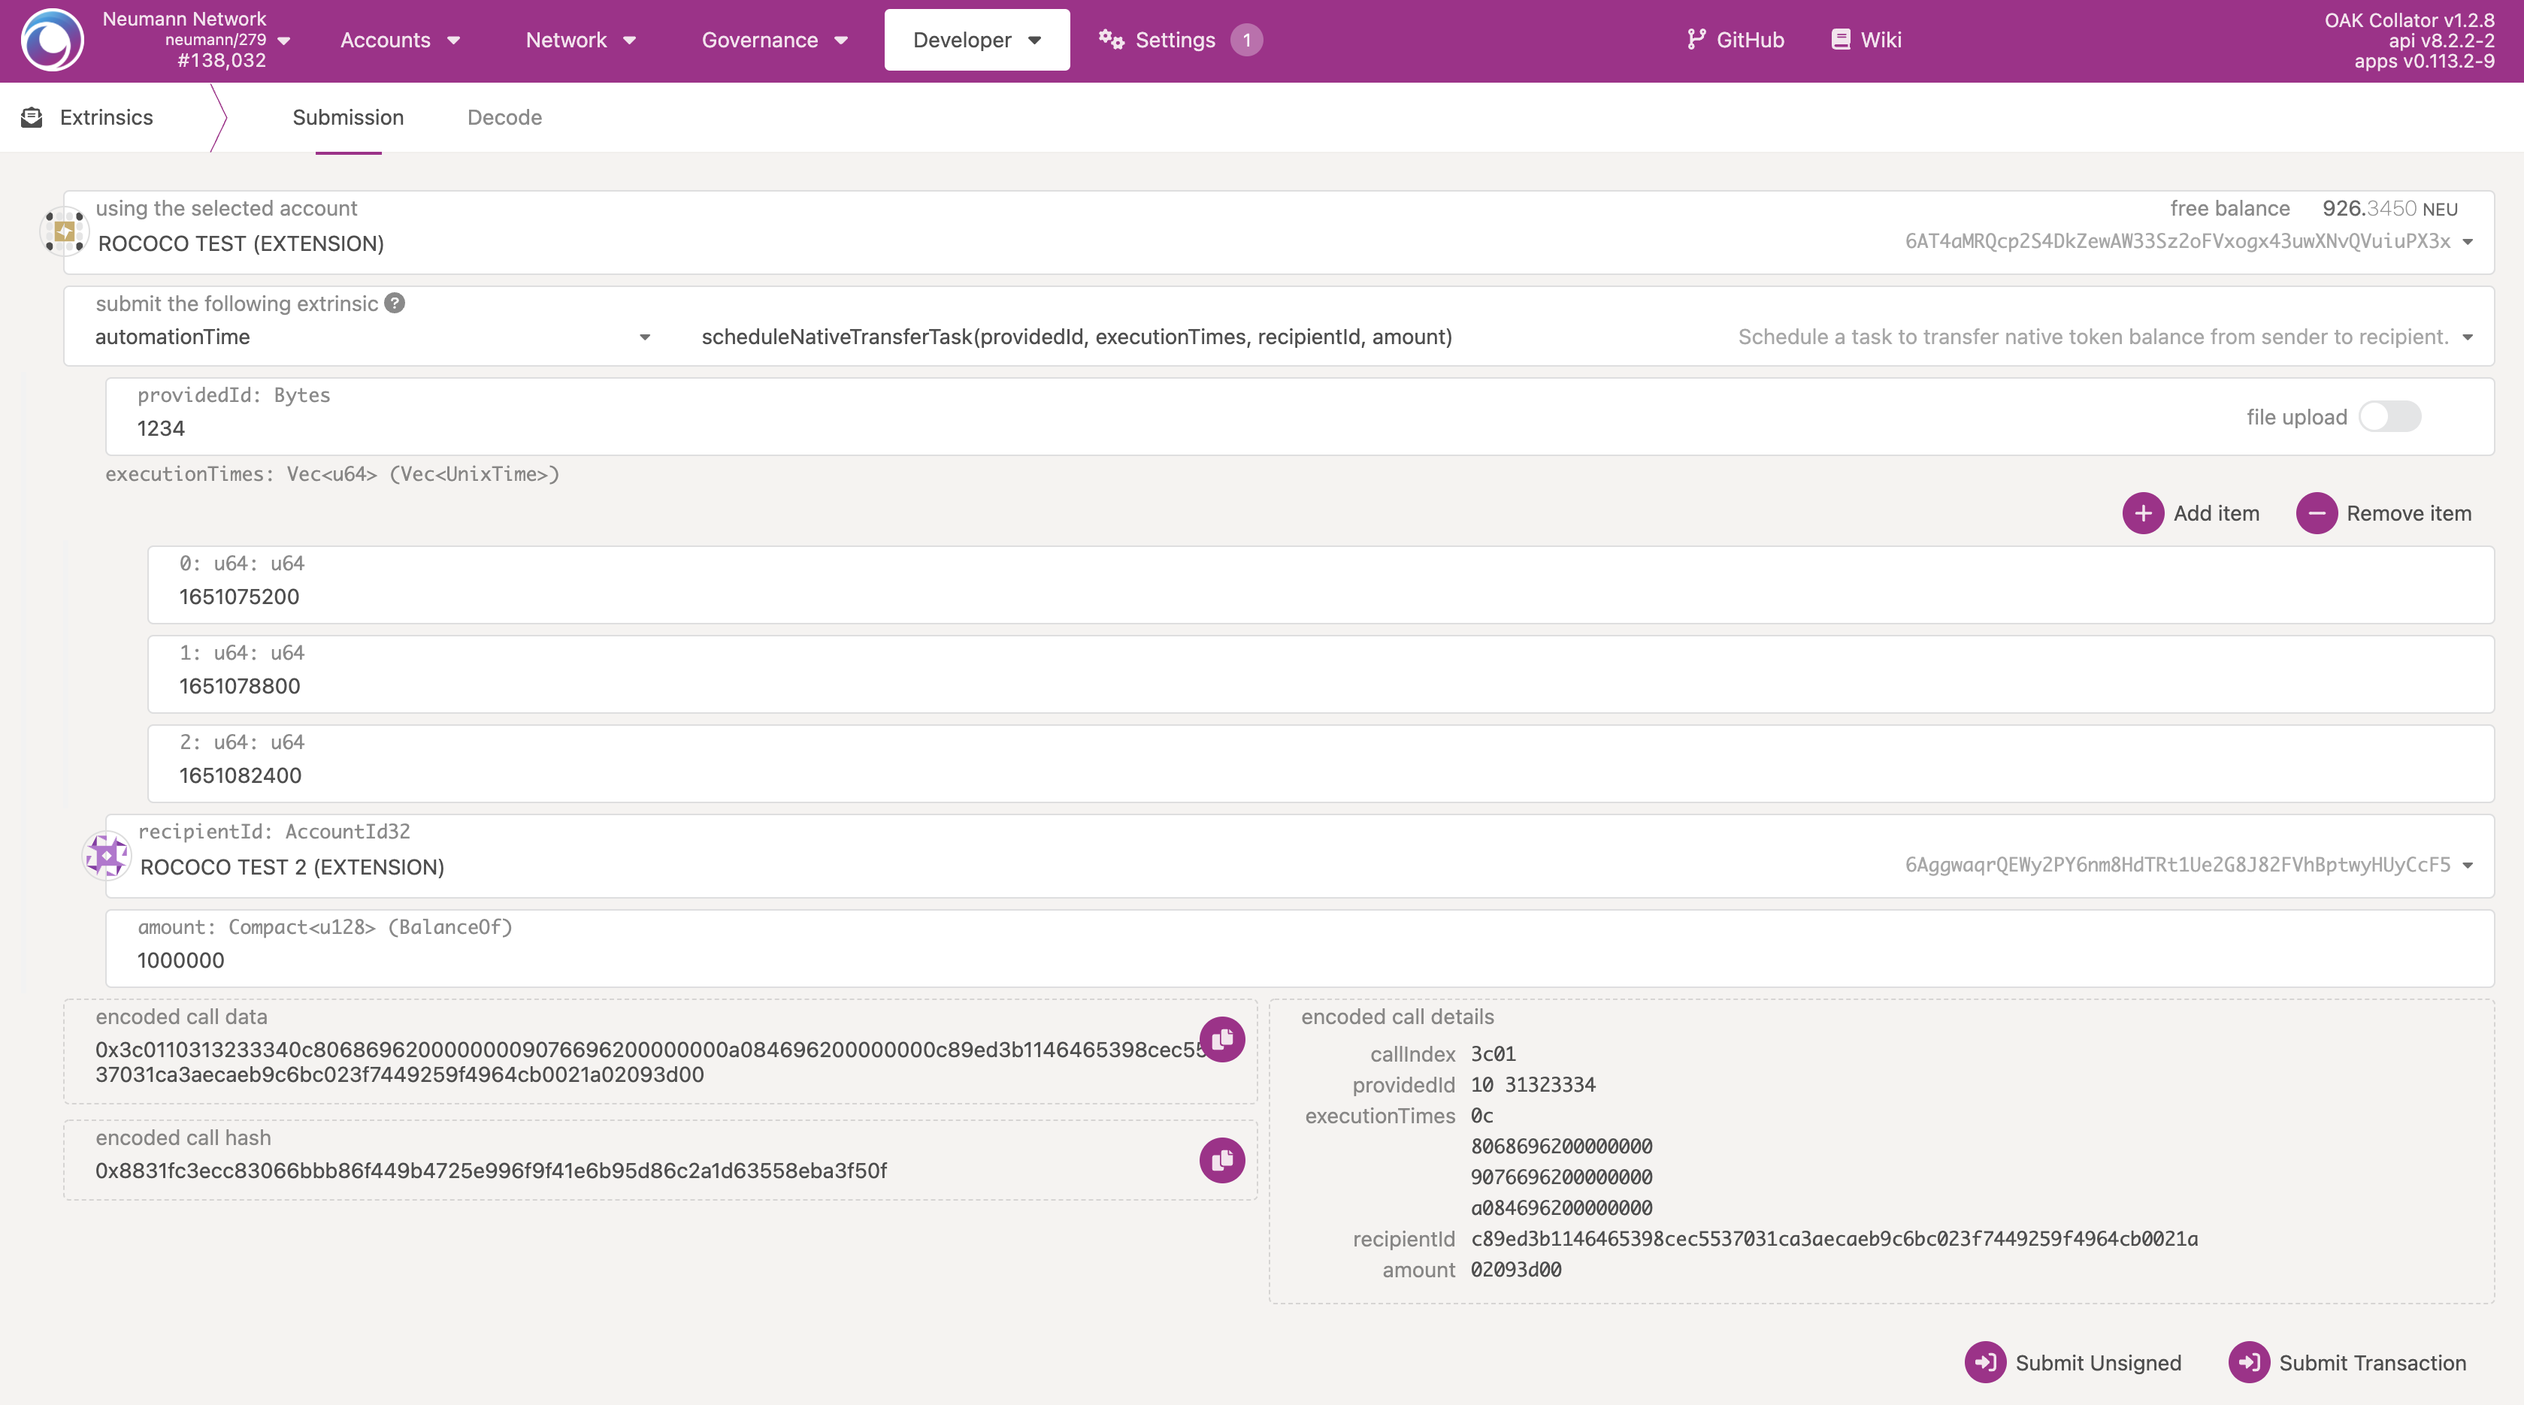
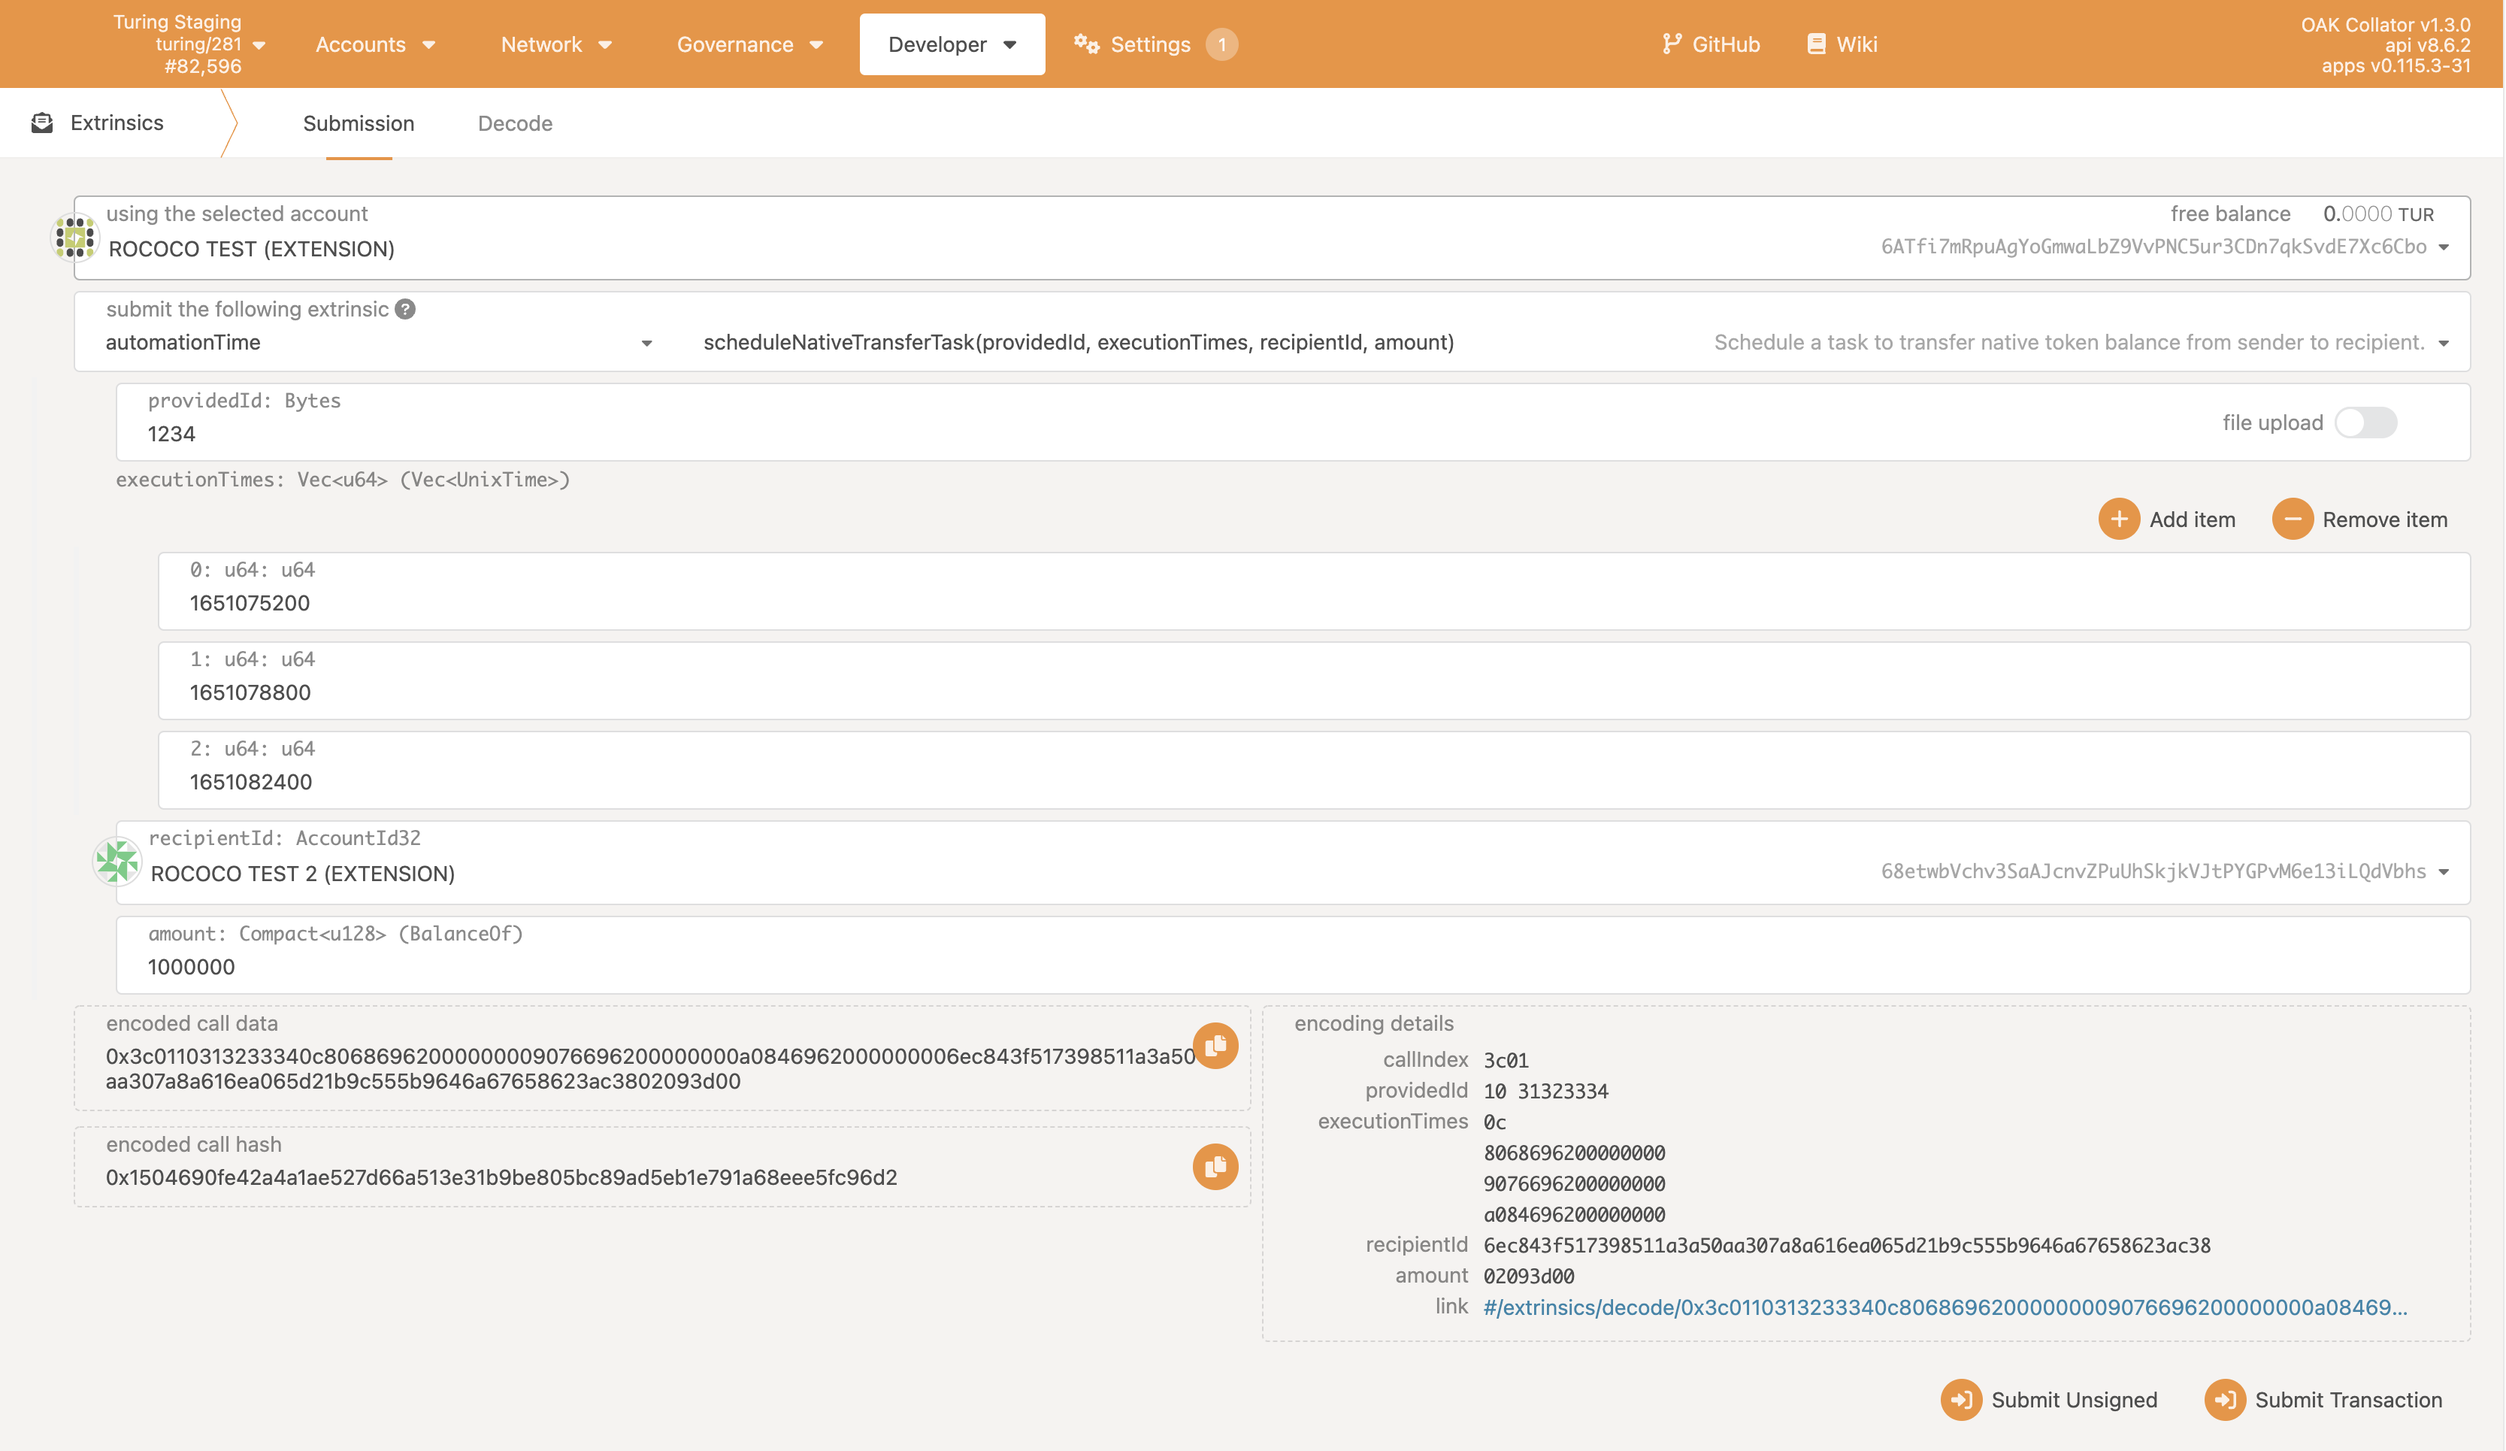
Replace Neumann with Turing Staging.

diff --git a/_docs/turing-staging-testnet.md b/_docs/turing-staging-testnet.md
@@ -1,40 +1,40 @@
 ---
-title: User Testing on Neumann
-subtitle: Learn more about how to test our automation on the Neumann testnet
+title: User Testing on Turing Staging
+subtitle: Learn more about how to test our automation on the Turing Staging testnet
 author: irsal
 tags: [testing]
 ---
 
 ### Pre-requisites
 
-1. Please grab your NEU tokens from our Discord faucet. [Instructions here.](https://medium.com/oak-blockchain/launching-neumann-oaks-parachain-testnet-c982e7f492f)
-2. Head over to the [Neumann PolkadotJS App](https://polkadot.js.org/apps/?rpc=wss%3A%2F%2Fneumann.api.onfinality.io%2Fpublic-ws#/explorer)
+1. Please grab your TUR tokens from our Discord faucet. [Instructions here.]()
+2. Head over to the [Turing Staging PolkadotJS App](https://polkadot.js.org/apps/?rpc=wss%3A%2F%2Frpc.turing-staging.oak.tech%2Fpublic-ws#/explorer)
 3. Go to the developer > extrinsics tab
 
 ### Scheduling a Future Notification
 
 ![automation_time_124](../../assets/img/automation-time-124.png)
 
-1. Select the "automationTime" [extrinsic](https://polkadot.js.org/apps/?rpc=wss%3A%2F%2Fneumann.api.onfinality.io%2Fpublic-ws#/extrinsics)
+1. Select the "automationTime" [extrinsic](https://polkadot.js.org/apps/?rpc=wss%3A%2F%2Frpc.turing-staging.oak.tech%2Fpublic-ws#/extrinsics)
 2. Select the "scheduleNotifyTask" function
 3. Set providedId as a unique identifier for the task (could be anything). Please do not reuse the same identifier. 
 4. Find a timeslot in the future in one of the [many unix timestamp converters](https://www.unixtimestamp.com/).  The timeslot must be an hour.  You can add up to 24, hour timeslots in the future using the "+ Add Item" button.  Duplicate hours will only run once. For example, find a time at least 5 minutes in the future and on the next hour. 
 Note: Please make sure the minute and seconds are set to 00, or the extrinsic will throw an error.
 5. Write any message you'd like.
 6. Hit "Submit Transaction".
-7. If successful (green check mark on the top right), watch the ["Explorer" tab](https://polkadot.js.org/apps/?rpc=wss%3A%2F%2Fneumann.api.onfinality.io%2Fpublic-ws#/explorer) and wait for your message to pop up.
+7. If successful (green check mark on the top right), watch the ["Explorer" tab](https://polkadot.js.org/apps/?rpc=wss%3A%2F%2Frpc.turing-staging.oak.tech%2Fpublic-ws#/explorer) and wait for your message to pop up.
 
-### Scheduling a Future Transfer of Neumann Tokens
+### Scheduling a Future Transfer of Turing Staging Tokens
 
 ![automation_native_transfer_217](../../assets/img/automation-native-transfer-217.png)
 
-1. Select the "automationTime" [extrinsic](https://polkadot.js.org/apps/?rpc=wss%3A%2F%2Fneumann.api.onfinality.io%2Fpublic-ws#/extrinsics)
+1. Select the "automationTime" [extrinsic](https://polkadot.js.org/apps/?rpc=wss%3A%2F%2rpc.turing-staging.oak.tech%2Fpublic-ws#/extrinsics)
 2. Select the "scheduleNativeTransferTask" function
 3. Set providedId as a unique identifier for the task (could be anything). Please do not reuse the same identifier. 
 4. Find a timeslot in the future in one of the [many unix timestamp converters](https://www.unixtimestamp.com/).  The timeslot must be an hour.  You can add up to 24, hour timeslots in the future using the "+ Add Item" button.  Duplicate hours will only run once. For example, find a time at least 5 minutes in the future and on the next hour. 
 Note: Please make sure the minute and seconds are set to 00, or the extrinsic will throw an error.
 5. Select a recipient. Currently, this functionality only sends to your accounts or accounts in your address book. If you would like to send to an address, please make sure you have added to your address book first. 
 Note: You cannot send to tokens from an address back to the same address. Please make sure that the selected account is different from the recipientId.
-6. Input a value. Currently, the smallest value allowed is 1,000,000,000 (NOTE: please remove commas when inputting value into the extrinsic). This number is the equivalent of 0.1 NEU.
+6. Input a value. Currently, the smallest value allowed is 1,000,000,000 (NOTE: please remove commas when inputting value into the extrinsic). This number is the equivalent of 0.1 TUR.
 7. Hit "Submit Transaction".
-8. If successful (green check mark on the top right), watch the ["Explorer" tab](https://polkadot.js.org/apps/?rpc=wss%3A%2F%2Fneumann.api.onfinality.io%2Fpublic-ws#/explorer) and wait for the message to confirm successful transfer of tokens.
+8. If successful (green check mark on the top right), watch the ["Explorer" tab](https://polkadot.js.org/apps/?rpc=wss%3A%2F%2rpc.turing-staging.oak.tech%2Fpublic-ws#/explorer) and wait for the message to confirm successful transfer of tokens.

diff --git a/_docs/collators.md b/_docs/collators.md
@@ -10,18 +10,18 @@ tags: [dpos, collators]
 Before you start producing blocks and earning rewards as a collator, you must first setup your node. Head over to the following pages for a tutorial on the node setup:
 
 1. [Experienced Node Operators setup for Turing Network](../node-operator-requirements-turing)
-2. [Experienced Node Operators setup for Neumann Network](../node-operator-requirements-neumann)
+2. [Experienced Node Operators setup for Turing Staging Network]()
 3. [Using our partner services](../node-operator-requirements-service)
 
 If you have any questions or run into issues, head over to the [OAK Discord](https://discord.gg/7W9UDvsbwh) for help.
 
 ## Network Specific Information
 
-### Neumann Network - Testnet
+### Turing Staging Network - Testnet
 
-- [PolkadotJS Extrinsics](https://polkadot.js.org/apps/?rpc=wss%3A%2F%2Frpc.testnet.oak.tech#/extrinsics) - use this to execute post calls or functions (e.g. signing up to be a collator)
-- [Chain State](https://polkadot.js.org/apps/?rpc=wss%3A%2F%2Frpc.testnet.oak.tech#/chainstate) - use this to query fungible storage items (e.g. the number of selected candidates)
-- [Chain Constants](https://polkadot.js.org/apps/?rpc=wss%3A%2F%2Frpc.testnet.oak.tech#/chainstate/constants) - use this to query constants for the blockchain (e.g. any parameter with a `const` below)
+- [PolkadotJS Extrinsics](https://polkadot.js.org/apps/?rpc=wss%3A%2F%2Frpc.turing-staging.oak.tech#/extrinsics) - use this to execute post calls or functions (e.g. signing up to be a collator)
+- [Chain State](https://polkadot.js.org/apps/?rpc=wss%3A%2F%2Frpc.turing-staging.oak.tech#/chainstate) - use this to query fungible storage items (e.g. the number of selected candidates)
+- [Chain Constants](https://polkadot.js.org/apps/?rpc=wss%3A%2F%2Frpc.turing-staging.oak.tech#/chainstate/constants) - use this to query constants for the blockchain (e.g. any parameter with a `const` below)
 - [Telemetry](https://telemetry.polkadot.io/#list/0x42e75532d6809775cef4b9ca8e4bb49be2dc1e87c9ff1ba299e78481b5cb3047)
 
 | Field                                                                                     | Current Value                                                 |

diff --git a/_docs/node-operator-requirements-service.md b/_docs/node-operator-requirements-service.md
@@ -17,11 +17,11 @@ Please sync a few days before your intended collation / block production candida
 
 ----------------------------------------------------------------------------------------------------------------------------------
 
-## Neumann Network - Testnet
-*Neumann is a testnet, thus it will have maximal amount of chaos and will NOT have 100% uptime. This might be reset at a given time due to a number of different reasons. If you are a stakeholder (collator, dev, consumer) of this chain, please expect occassional instability, thus the ability to re-deploy your system as needed. The OAK team will always re-instate the same wallet amounts as before a reset occurs, so users should expect that for any given chain reset. If a chain reset is required, it will be announced via Discord.*
+## Turing Staging Network - Testnet
+*Turing Staging is a testnet, thus it will have maximal amount of chaos and will NOT have 100% uptime. This might be reset at a given time due to a number of different reasons. If you are a stakeholder (collator, dev, consumer) of this chain, please expect occassional instability, thus the ability to re-deploy your system as needed. The OAK team will always re-instate the same wallet amounts as before a reset occurs, so users should expect that for any given chain reset. If a chain reset is required, it will be announced via Discord.*
 
-- [Neumann Chain Spec](https://github.com/OAK-Foundation/OAK-blockchain/blob/master/node/res/neumann.json)
-- [OAK-hosted Rococo Chain Spec](https://github.com/OAK-Foundation/OAK-blockchain/blob/master/node/res/neumann-rococo-testnet.json)
+- [Turing Staging Chain Spec](https://github.com/OAK-Foundation/OAK-blockchain/blob/master/node/res/turing-staging.json)
+- [Rococo Chain Spec](https://github.com/OAK-Foundation/OAK-blockchain/blob/master/resources/rococo.json)
 
 ## Turing Network
 - [Turing Chain Spec](https://github.com/OAK-Foundation/OAK-blockchain/blob/master/node/res/turing.json)

diff --git a/_docs/networks.md b/_docs/networks.md
@@ -7,6 +7,6 @@ tags: [architecture]
 
 The Polkadot ecosystem enables multiple types of networks: a testnet, canary and mainnet. Below are the different networks.
 - *OAK Testnet*: standalone testnet (built off of substrate); soon to be deprecated
-- *Neumann (NEU)*: testnet parachain; expect chaos and occassional downtime for the network; these tokens hold no value
+- *Turing Staging (TUR)*: testnet parachain; expect chaos and occassional downtime for the network; these tokens hold no value
 - *Turing (TUR)*: Kusama parachain (coming soon); this is a canary, expect chaos but limited/no downtime; these tokens do hold value
 - *OAK*: Polkadot parachain (coming soon); this is the mainnet

diff --git a/_docs/developer-guide-overview.md b/_docs/developer-guide-overview.md
@@ -12,7 +12,7 @@ The goal of the OAK blockchain is to allow users to schedule actions to execute 
 *OAK*: The name of our blockchain. While the name changes for each deployment we will refer to it as OAK in this document regardless of the environment you are integrating with.
 - OAK -> Polkadot
 - TUR -> Kusama
-- NEU -> testnet
+- TUR -> testnet
 
 *Native*: This will be preceding “token” or “event”. This refers to the token and events of     the OAK chain you are interacting with.
 

diff --git a/_docs/validator-setup.md b/_docs/validator-setup.md
@@ -32,7 +32,7 @@ The output will have a hex-encoded "result" field. The result is the concatenati
 ## Become a validator
 
 ### Open this link and click 'Validator'
-<https://polkadot.js.org/apps/?rpc=wss%3A%2F%2Frpc.testnet.oak.tech#/staking/actions>
+<https://polkadot.js.org/apps/?rpc=wss%3A%2F%2Frpc.turing-staging.oak.tech#/staking/actions>
 
 ### Setup validator
 
